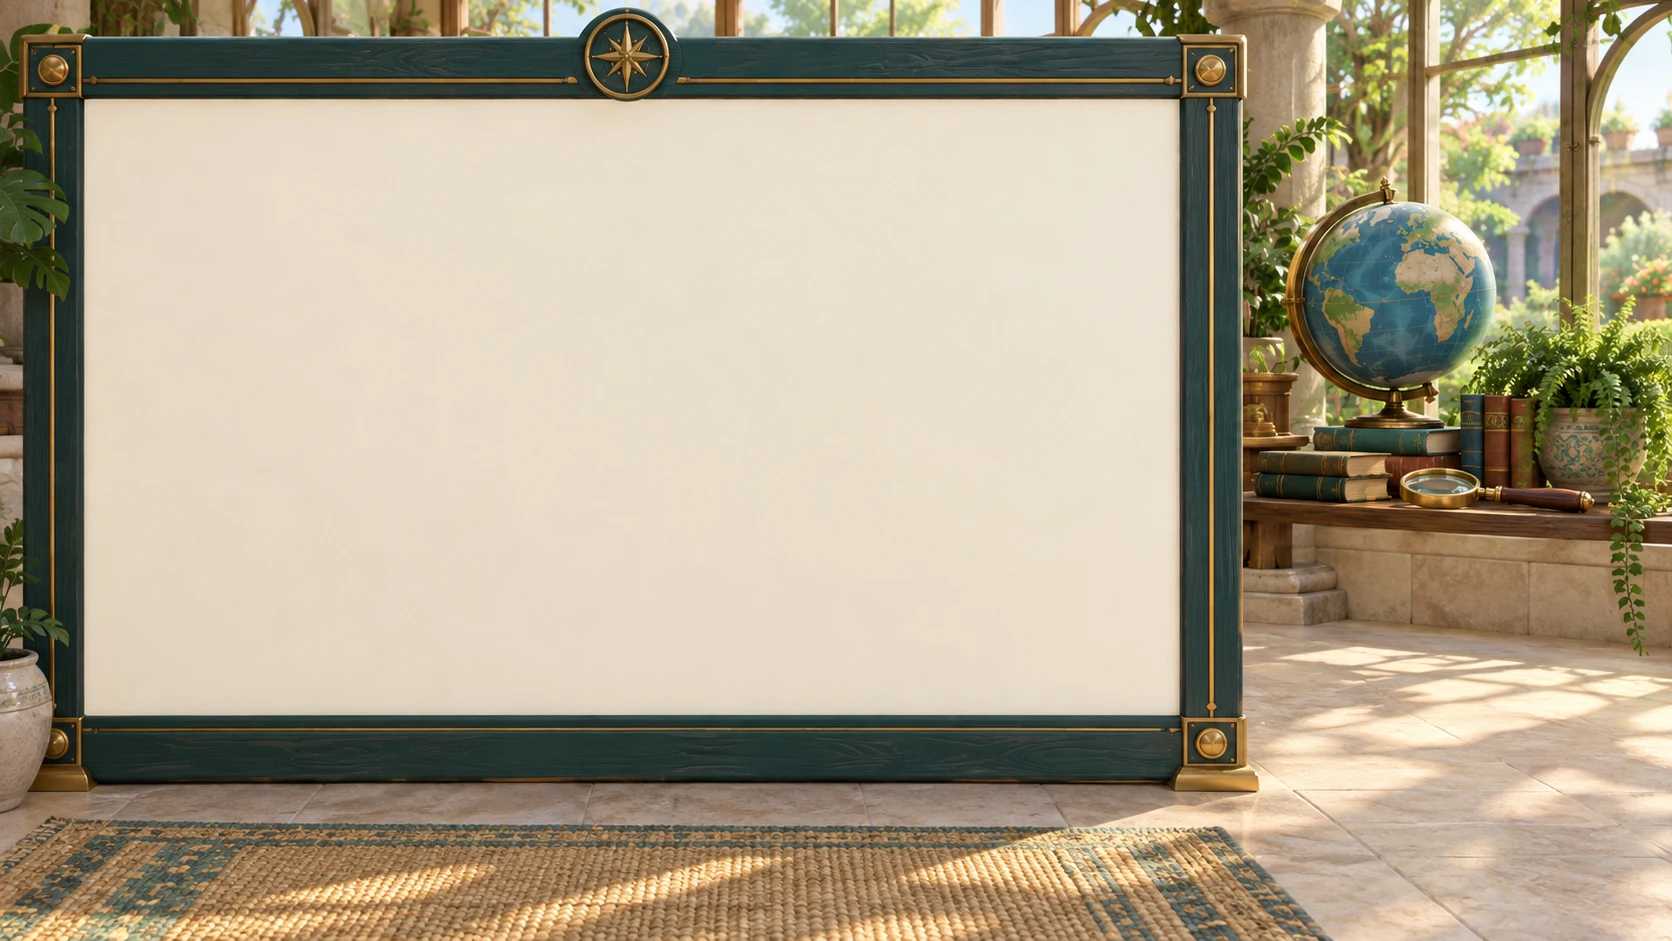
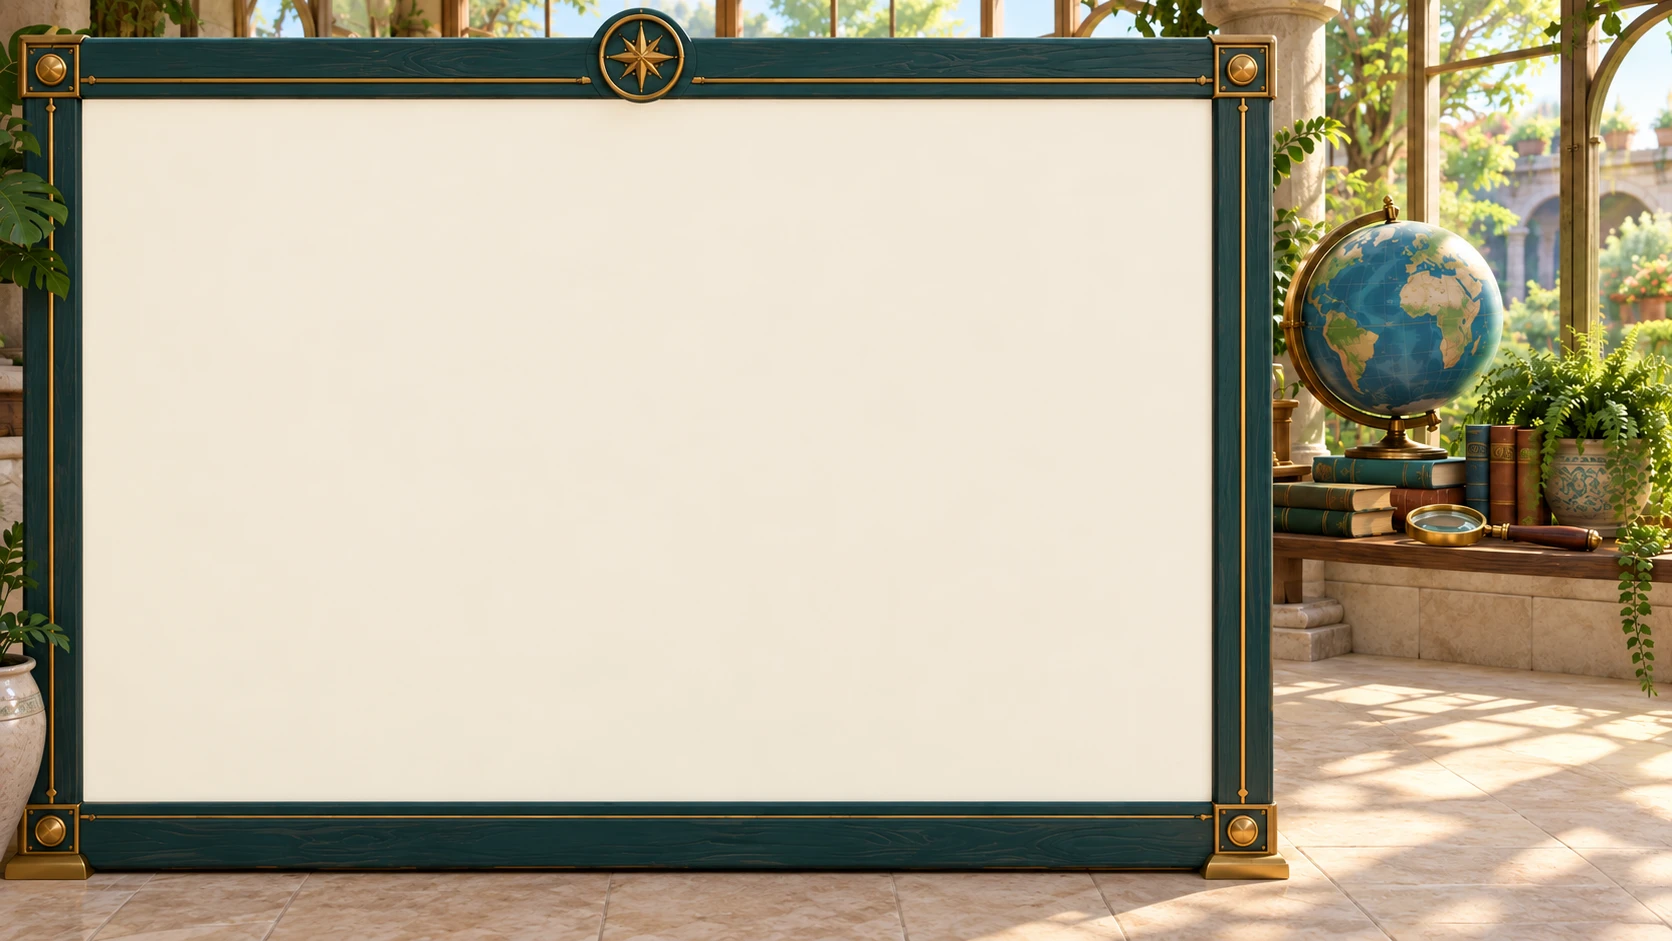
Give the Village Browser a taller usable screen

diff --git a/docs/README.md b/docs/README.md
@@ -53,7 +53,7 @@ The generated inventory lists every Markdown file in the repository. `npm run ch
 
 <!-- documentation-inventory:start -->
 
-Indexed: **275 Markdown documents** and **619 supporting documentation files**.
+Indexed: **275 Markdown documents** and **620 supporting documentation files**.
 
 | Category | Files |
 | --- | ---: |
@@ -64,7 +64,7 @@ Indexed: **275 Markdown documents** and **619 supporting documentation files**.
 | Resource and artwork records | 71 |
 | Module and service documentation | 32 |
 | Website documentation and articles | 0 |
-| Documentation diagrams, previews and evidence | 619 |
+| Documentation diagrams, previews and evidence | 620 |
 
 <details><summary>Root entry points (6)</summary>
 
@@ -376,7 +376,7 @@ Indexed: **275 Markdown documents** and **619 supporting documentation files**.
 
 </details>
 
-<details><summary>Documentation diagrams, previews and evidence (619)</summary>
+<details><summary>Documentation diagrams, previews and evidence (620)</summary>
 
 - [core/diagnostics/analytics-insights.json](../core/diagnostics/analytics-insights.json)
 - [docs/architecture.html](architecture.html)
@@ -820,6 +820,7 @@ Indexed: **275 Markdown documents** and **619 supporting documentation files**.
 - [resources/styles/builtin/references/registered-scenes/brands/zoom/background.webp](../resources/styles/builtin/references/registered-scenes/brands/zoom/background.webp)
 - [resources/styles/builtin/references/registered-scenes/brands/zoom/effect.json](../resources/styles/builtin/references/registered-scenes/brands/zoom/effect.json)
 - [resources/styles/builtin/references/registered-scenes/brands/zoom/effect.webp](../resources/styles/builtin/references/registered-scenes/brands/zoom/effect.webp)
+- [resources/styles/builtin/references/registered-scenes/browser/background.json](../resources/styles/builtin/references/registered-scenes/browser/background.json)
 - [resources/styles/builtin/references/registered-scenes/browser/background.png](../resources/styles/builtin/references/registered-scenes/browser/background.png)
 - [resources/styles/builtin/references/registered-scenes/catalog.json](../resources/styles/builtin/references/registered-scenes/catalog.json)
 - [resources/styles/builtin/references/registered-scenes/clock/background.png](../resources/styles/builtin/references/registered-scenes/clock/background.png)

diff --git a/resources/styles/builtin/references/registered-scenes/README.md b/resources/styles/builtin/references/registered-scenes/README.md
@@ -220,7 +220,7 @@ Primary HTML region: 62.0% of image width × 63.0% of image height; measured ins
 
 <img src="../../../../../ui/theme-packages/village/assets/devices/browser.webp" width="100" alt="Browser icon">
 
-Primary HTML region: 63.5% of image width × 62.0% of image height; measured inside the painted surface.
+Primary HTML region: 66.2% of image width × 72.4% of image height; measured inside the painted surface. The taller frame provides about 22% more page area while preserving the globe and companion clearance.
 
 ![Browser background](browser/background.png)
 
